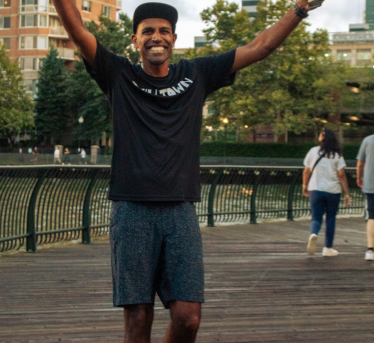
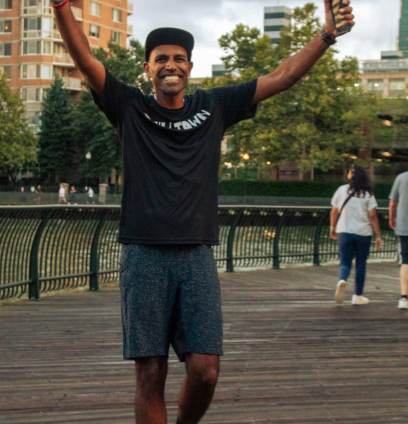
add slideshow8.png

diff --git a/src/components/Slideshow.js b/src/components/Slideshow.js
@@ -3,6 +3,9 @@ import slideshow2 from "../assets/images/slideshow2.png";
 import slideshow4 from "../assets/images/slideshow4.png";
 import slideshow5 from "../assets/images/slideshow5.png";
 import slideshow6 from "../assets/images/slideshow6.png";
+import slideshow7 from "../assets/images/slideshow7.png";
+import slideshow8 from "../assets/images/slideshow8.png";
+
 import '../scss/Slideshow.scss';
 
 export function Slideshow() {
@@ -16,6 +19,17 @@ export function Slideshow() {
                         alt="Slideshow 1"
                     />
                 </div>
+            <div className='Slideshow8-container'>
+                <div className='slideshow8-container'>
+                    <div className='photos'>
+                        <img
+                        className='photo'
+                        src={slideshow8}
+                        alt="slideshow 8"
+                        />
+                    </div>
+                </div>
+            </div>
             </div>
             <div className='Slideshow2-container'>
                 <div className='photos'>
@@ -25,6 +39,16 @@ export function Slideshow() {
                         alt="Slideshow 2"
                     />
                 </div>
+                <div className= 'slideshow2-container'>
+                <div className='photo'>
+                    <img
+                    className='photo'
+                    src={slideshow7}
+                    alt="slideshow7">
+                        
+                    </img>
+                </div>
+            </div>
             </div>
             <div className='Slideshow4-container'>
                 <div className='photos'>
@@ -52,6 +76,7 @@ export function Slideshow() {
 
                     </img>
                 </div>
+            
             </div>
             </div>
             </div>
